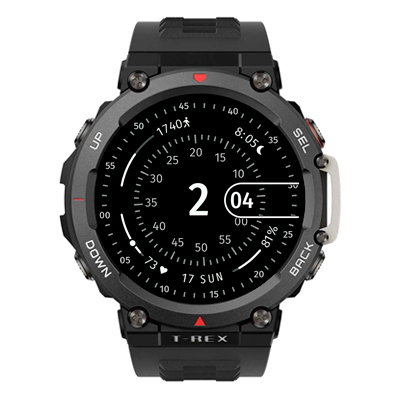
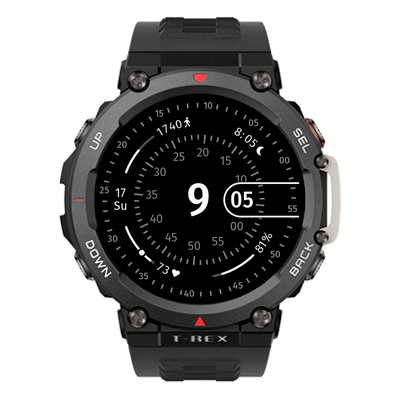
move date

Changed region(s): [[0.24, 0.24, 0.75, 0.75], [0.36, 0.33, 0.39, 0.36], [0.33, 0.3, 0.36, 0.33]]

diff --git a/concentric-data/watchface/index.r.layout.js b/concentric-data/watchface/index.r.layout.js
@@ -3,6 +3,7 @@ import {
   CURRENT_HOUR,
   CURRENT_MINUTE,
   DATA,
+  DATE,
   FONTS,
   MINUTE,
   SCREEN,
@@ -100,43 +101,52 @@ export const CURRENT_MINUTE_TEXT_PROPS = {
   show_level: hmUI.show_level.ONLY_NORMAL,
 };
 
-export const DATE_DAY_CIRCLE_TEXT_PROPS = {
-  maxLength: 2,
+export const DATE_DAY_TEXT_PROPS = {
+  x: SCREEN.centerX - DATA.radius - DATE.width / 2,
+  y: SCREEN.centerY - DATE.height,
+  w: DATE.width,
+  h: DATE.height,
+  color: COLORS.primary,
+  text_size: DATE.textSize,
+  align_h: hmUI.align.CENTER_H,
+  align_v: hmUI.align.CENTER_V,
+  font: FONTS.secondary,
   text: '00',
-  angleStart: -11,
+  show_level: hmUI.show_level.ONLY_NORMAL,
+};
+
+export const DATE_WEEK_TEXT_PROPS = {
+  x: SCREEN.centerX - DATA.radius - DATE.width / 2,
+  y: SCREEN.centerY,
+  w: DATE.width,
+  h: DATE.height,
+  color: COLORS.primary,
+  text_size: DATE.textSize,
+  align_h: hmUI.align.CENTER_H,
+  align_v: hmUI.align.CENTER_V,
+  font: FONTS.secondary,
+  text: 'XX',
+  show_level: hmUI.show_level.ONLY_NORMAL,
+};
+
+export const BATTERY_CIRCLE_TEXT_PROPS = {
   radius: DATA.radius - DATA.circleText.imageHeight / 2,
   gap: px(-1),
   charImages: DATA.circleText.charImages,
   imageWidth: DATA.circleText.imageWidth,
   imageHeight: DATA.circleText.imageHeight,
   isTextReversed: true,
-};
-
-export const DATE_WEEK_CIRCLE_TEXT_PROPS = {
-  maxLength: 3,
-  text: 'XXX',
-  angleStart: 3,
-  radius: DATA.radius - DATA.circleText.imageHeight / 2,
-  gap: px(-2),
-  charImages: DATA.circleText.charImages,
-  imageWidth: px(19),
-  imageHeight: DATA.circleText.imageHeight,
-  isTextReversed: true,
-};
-
-export const BATTERY_CIRCLE_TEXT_PROPS = {
-  ...DATE_DAY_CIRCLE_TEXT_PROPS,
   maxLength: 4,
   text: '100%',
-  angleStart: 57,
+  angleStart: 51,
 };
 
 export const BATTERY_BACKGROUND_ARC_PROPS = {
   center_x: SCREEN.centerX,
   center_y: SCREEN.centerY,
   radius: DATA.radius,
-  start_angle: 129,
-  end_angle: 155,
+  start_angle: 135,
+  end_angle: 170,
   color: COLORS.tertiary,
   line_width: DATA.arc.width,
   level: 100,
@@ -149,18 +159,18 @@ export const BATTERY_CURRENT_ARC_PROPS = {
 };
 
 export const HEART_CIRCLE_TEXT_PROPS = {
-  ...DATE_DAY_CIRCLE_TEXT_PROPS,
+  ...BATTERY_CIRCLE_TEXT_PROPS,
   maxLength: 4,
   text: '000→',
-  angleStart: -40,
+  angleStart: -30,
 };
 
 export const HEART_BACKGROUND_ARC_PROPS = {
   center_x: SCREEN.centerX,
   center_y: SCREEN.centerY,
   radius: DATA.radius,
-  start_angle: 225,
-  end_angle: 260,
+  start_angle: 215,
+  end_angle: 250,
   color: COLORS.tertiary,
   line_width: DATA.arc.width,
   level: 100,
@@ -182,7 +192,7 @@ export const HEART_DOT_PROPS = {
 };
 
 export const STEPS_CIRCLE_TEXT_PROPS = {
-  ...DATE_DAY_CIRCLE_TEXT_PROPS,
+  ...BATTERY_CIRCLE_TEXT_PROPS,
   maxLength: 6,
   text: '00000→',
   angleStart: -30,
@@ -193,7 +203,7 @@ export const STEPS_BACKGROUND_ARC_PROPS = {
   center_x: SCREEN.centerX,
   center_y: SCREEN.centerY,
   radius: DATA.radius,
-  start_angle: 280,
+  start_angle: 290,
   end_angle: 325,
   color: COLORS.tertiary,
   line_width: DATA.arc.width,
@@ -207,7 +217,7 @@ export const STEPS_CURRENT_ARC_PROPS = {
 };
 
 export const SLEEP_CIRCLE_TEXT_PROPS = {
-  ...DATE_DAY_CIRCLE_TEXT_PROPS,
+  ...BATTERY_CIRCLE_TEXT_PROPS,
   maxLength: 6,
   text: '00:00 ',
   angleStart: 30,

diff --git a/concentric-data/watchface/index.js b/concentric-data/watchface/index.js
@@ -22,8 +22,8 @@ import {
   BATTERY_CURRENT_ARC_PROPS,
   CURRENT_HOUR_TEXT_PROPS,
   CURRENT_MINUTE_TEXT_PROPS,
-  DATE_DAY_CIRCLE_TEXT_PROPS,
-  DATE_WEEK_CIRCLE_TEXT_PROPS,
+  DATE_DAY_TEXT_PROPS,
+  DATE_WEEK_TEXT_PROPS,
   FRAME_IMAGE_PROPS,
   HEART_BACKGROUND_ARC_PROPS,
   HEART_CIRCLE_TEXT_PROPS,
@@ -48,8 +48,7 @@ WatchFace({
     console.log('index page.js on build invoke');
 
     this.buildTime();
-    this.buildDateDay();
-    this.buildDateWeek();
+    this.buildDate();
     this.buildBattery();
     this.buildHeartRate();
     this.buildSteps();
@@ -145,7 +144,7 @@ WatchFace({
       }
 
       prevMinuteAngle = angle;
-      
+
       updateWheel(
         angle,
         minuteImage,
@@ -200,33 +199,14 @@ WatchFace({
     });
   },
 
-  buildDateDay() {
-    const { updateText } = createCircleTextWidget(DATE_DAY_CIRCLE_TEXT_PROPS);
+  buildDate() {
+    const dateText = hmUI.createWidget(hmUI.widget.TEXT, DATE_DAY_TEXT_PROPS);
+    const weekText = hmUI.createWidget(hmUI.widget.TEXT, DATE_WEEK_TEXT_PROPS);
 
     const update = () => {
-      const { day } = hmSensor.createSensor(hmSensor.id.TIME);
-      const text = day.toString().padStart(2, ' ');
-      updateText(text);
-    };
-
-    hmUI.createWidget(hmUI.widget.WIDGET_DELEGATE, {
-      resume_call: () => {
-        console.log('ui resume');
-
-        if (hmSetting.getScreenType() == hmSetting.screen_type.WATCHFACE) {
-          update();
-        }
-      },
-    });
-  },
-
-  buildDateWeek() {
-    const { updateText } = createCircleTextWidget(DATE_WEEK_CIRCLE_TEXT_PROPS);
-
-    const update = () => {
-      const { week } = hmSensor.createSensor(hmSensor.id.TIME);
-      const text = WEEKDAYS[week - 1];
-      updateText(text);
+      const { day, week } = hmSensor.createSensor(hmSensor.id.TIME);
+      dateText.setProperty(hmUI.prop.TEXT, day.toString());
+      weekText.setProperty(hmUI.prop.TEXT, WEEKDAYS[week - 1]);
     };
 
     hmUI.createWidget(hmUI.widget.WIDGET_DELEGATE, {

diff --git a/concentric-data/utils/textChars.js b/concentric-data/utils/textChars.js
@@ -7,32 +7,6 @@ const buildFileName = (name) => `text_chars/${name}.png`;
 const images = {};
 
 [
-  'a',
-  'b',
-  'c',
-  'd',
-  'e',
-  'f',
-  'g',
-  'h',
-  'i',
-  'j',
-  'k',
-  'l',
-  'm',
-  'n',
-  'o',
-  'p',
-  'q',
-  'r',
-  's',
-  't',
-  'u',
-  'v',
-  'w',
-  'x',
-  'y',
-  'z',
   '0',
   '1',
   '2',
@@ -49,39 +23,6 @@ const images = {};
   '✱',
   '☀',
   '☼',
-  'а',
-  'б',
-  'в',
-  'г',
-  'д',
-  'е',
-  'ё',
-  'ж',
-  'з',
-  'и',
-  'й',
-  'к',
-  'л',
-  'м',
-  'н',
-  'о',
-  'п',
-  'р',
-  'с',
-  'т',
-  'у',
-  'ф',
-  'х',
-  'ц',
-  'ч',
-  'ш',
-  'щ',
-  'ъ',
-  'ы',
-  'ь',
-  'э',
-  'ю',
-  'я',
 ].forEach((name) => {
   images[name] = buildFileName(name);
 });

diff --git a/concentric-data/utils/constants.js b/concentric-data/utils/constants.js
@@ -88,6 +88,12 @@ export const CURRENT_MINUTE = {
 
 export const MIN_ANGLE_TO_UPDATE_WHEEL = 0.7;
 
+export const DATE = {
+  width: px(60),
+  height: px(30),
+  textSize: px(28),
+};
+
 export const DATA = {
   radius: px(185),
   circleText: {
@@ -102,4 +108,4 @@ export const DATA = {
 
 export const WEEKDAYS = isRusLang
   ? ['ПН', 'ВТ', 'СР', 'ЧТ', 'ПТ', 'СБ', 'ВС']
-  : ['MON', 'TUE', 'WED', 'THU', 'FRI', 'SAT', 'SUN'];
+  : ['Mo', 'Tu', 'We', 'Th', 'Fr', 'Sa', 'Su'];
